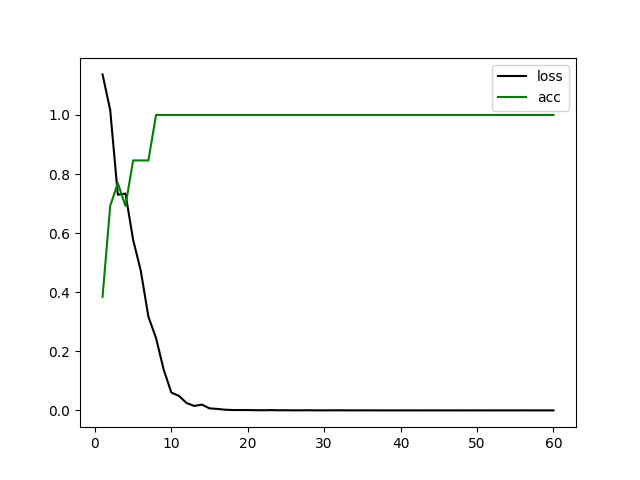
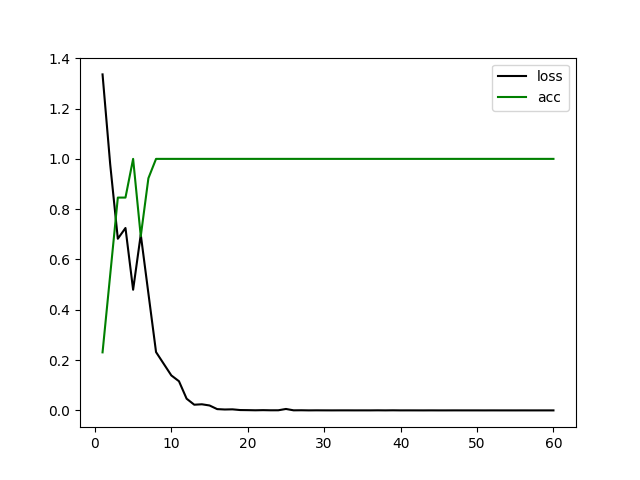
open two branches

diff --git a/Main.py b/Main.py
@@ -3,12 +3,15 @@ import torch.nn as nn
 import argparse
 import random
 import Metrics as metrics
+import pandas as pd
+import datetime
 from matplotlib import pyplot as plt
 from torch.utils.data import DataLoader
 from Datasets import IRNN2023
 from module.model2 import IRNN
 from torch.optim import Adam
 from torchvision import transforms
+from util.loss import INFONCELoss
 
 parser=argparse.ArgumentParser()
 parser.add_argument("--epoches",type=int,default=60)
@@ -19,6 +22,7 @@ parser.add_argument("--weight_decay",type=float,default=5e-4)
 parser.add_argument("--h_RNN_layers",type=int,default=1)
 parser.add_argument("--drop_p",type=float,default=0.4)
 parser.add_argument("--num_classes",type=int,default=3)
+parser.add_argument("--ratio",type=float,default=0.1)
 arg=parser.parse_args()
 
 random.seed(1)
@@ -45,11 +49,13 @@ def train():
         for epoch in range(arg.epoches):
             total_loss=0.0
             running_corrects=0.0
-            for images,labels in dataloader:
-                images,labels=images.to(arg.device),labels.to(arg.device)
+            for images,labels,fin in dataloader:
+                images,labels,fin=images.to(arg.device),labels.to(arg.device),fin.to(arg.device)
                 optim.zero_grad()
-                _,output=model(images,None)
-                loss=criterion(output,labels)
+                out1,out2,output=model(images,fin)
+                loss_pred=criterion(output,labels)
+                loss_sim=INFONCELoss(out1,out2)
+                loss=loss_pred+arg.ratio*loss_sim
                 loss.backward()
                 optim.step()
                 total_loss+=loss.item()
@@ -73,6 +79,8 @@ def train():
     eval_f1 = metrics.f1score()
     acc_w, acc_uw = eval_acc.eval(pred_all_tensor,ground_truth_all_tensor)
     f1_w, f1_uw = eval_f1.eval(pred_all_tensor,ground_truth_all_tensor)
+    # 添加log日志
+    pd.DataFrame({"train_date":[datetime.datetime.now().strftime("%Y-%m-%d %H:%M:%S")],"acc":[acc_w],"uar":[acc_uw],"uf1":[f1_uw]}).to_csv("log.csv",mode='a',header=False)
     print("The dataset has the ACC:{:.4f} and UAR and UF1:{:.4f} and {:.4f}".format(acc_w, acc_uw, f1_uw))
 
 def evaluate(model,pth,transform,pred_all_tensor,ground_truth_all_tensor):
@@ -81,9 +89,9 @@ def evaluate(model,pth,transform,pred_all_tensor,ground_truth_all_tensor):
     dataloader = DataLoader(dataset=dataset, batch_size=arg.batch_size, shuffle=True)
     ground_truth=[]
     predicts=[]
-    for images, labels in dataloader:
-        images= images.to(arg.device)
-        _,output=model(images,None)
+    for images, labels,fin in dataloader:
+        images,fin= images.to(arg.device),fin.to(arg.device)
+        out1,out2,output=model(images,fin)
         _,predict=torch.max(output,dim=1)
         predicts.extend(predict.tolist())
         ground_truth.extend(labels.tolist())

diff --git a/module/model2.py b/module/model2.py
@@ -112,14 +112,21 @@ class IRNN(nn.Module):
         self.Inception1_2 = Inception(in_channels=24, out_channels=12,mode='video')
         self.Inception2_1 = Inception(in_channels=3, out_channels=6,mode='image')
         self.Inception2_2 = Inception(in_channels=24, out_channels=12,mode='image')
-        self.rnn = RNN(48*16*16, h_RNN_layers, 16*8*8, drop_p)
+        self.rnn = RNN(48*16*16, h_RNN_layers, 24*8*8, drop_p)
         self.cbam=CBAM(48,mode="video")
         self.fc = torch.nn.Sequential(
             torch.nn.Linear(in_features=16 * 16 * 48 , out_features=4048),  # 单层14*14*24，双层7*7*48
             torch.nn.BatchNorm1d(4048),
             torch.nn.ReLU(inplace=True),
-            torch.nn.Dropout(0.5),
+            torch.nn.Dropout(0.4),
             torch.nn.Linear(in_features=4048, out_features=num_classes),
+        )
+        self.fc1=torch.nn.Sequential(
+            torch.nn.Linear(in_features=16 * 16 * 48 *2, out_features=9096),  # 单层14*14*24，双层7*7*48
+            torch.nn.BatchNorm1d(9096),
+            torch.nn.ReLU(inplace=True),
+            torch.nn.Dropout(0.4),
+            torch.nn.Linear(in_features=9096, out_features=num_classes),
         )
 
     def forward(self,x1,x2):
@@ -135,15 +142,14 @@ class IRNN(nn.Module):
         # print(out_x1.shape)
         out_x1 =out_x1.reshape(out_x1.shape[0],out_x1.shape[1],-1)
         out_x1=self.rnn(out_x1)
-        '''
+
         out_x2=self.Inception2_1(x2)
         out_x2=self.Inception2_2(out_x2)
         out_x2 = out_x2.reshape(out_x2.shape[0], -1)
         x = torch.cat([out_x1, out_x2], dim=1)
-        '''
-        x=out_x1
-        x = self.fc(x)
-        return out_x1,x
+
+        x = self.fc1(x)
+        return out_x1,out_x2,x
 
 
 class RNN(nn.Module):

diff --git a/util/video.py b/util/video.py
@@ -1,5 +1,6 @@
 import cv2
 import os
+import datetime
 from tqdm import tqdm
 from decimal import *
 
@@ -41,23 +42,25 @@ def batch_extract_frame_modify():
             stride = int(Decimal(video_slice_len / 5).quantize(Decimal(0), rounding=ROUND_HALF_UP))
             idx = 0
             nums=0
-            while idx < video_slice_len:
+            while idx < video_slice_len-1:
                 cv2.imwrite(f"../videoslice/sub{index if index>=10 else '0'+str(index)}/{file[:-4]}/{nums}.jpg"
                             ,file_video_slice[idx])
                 nums+=1
                 if nums == 5:
                     break
-                if (idx + stride) < video_slice_len - 1:
+                if (idx + stride) < video_slice_len - 2:
                     idx += stride
                 else:
                     cv2.imwrite(f"../videoslice/sub{index if index >= 10 else '0' + str(index)}/{file[:-4]}/{nums}.jpg"
-                                , file_video_slice[-1])
+                                , file_video_slice[-2])
                     break
-
+            cv2.imwrite(f"../videoslice/sub{index if index >= 10 else '0' + str(index)}/{file[:-4]}/final_frame.jpg"
+                        , file_video_slice[-1])
 
 
 
 if __name__=='__main__':
     # batch_extract_frame()
-    batch_extract_frame_modify()
+    # batch_extract_frame_modify()
+    print(datetime.datetime.now().strftime("%Y-%m-%d %H:%M:%S"))
 

diff --git a/Datasets.py b/Datasets.py
@@ -100,12 +100,16 @@ class IRNN2023(Dataset):
 
     def __getitem__(self, index):
         image_seq=[]
+        final_img=None
         for (root,dir,files) in os.walk(self.df["pth"][index]):
-            for file in files:
+            for (idx,file) in enumerate(files):
                 img=self.transform(Image.open(root+"\\"+file))
-                image_seq.append(img.detach().numpy())
+                if idx<=4:
+                    image_seq.append(img.detach().numpy())
+                else:
+                    final_img=np.array(img)
         image_seq=np.array(image_seq)
-        return image_seq,self.df["class_label"][index]
+        return image_seq,self.df["class_label"][index],final_img
 
     def __len__(self):
         return len(self.df)

diff --git a/util/loss.py b/util/loss.py
@@ -1,0 +1,17 @@
+import torch
+import torch.nn.functional as F
+
+def sim(z1, z2):
+    # 归一化 dim=32*64
+    z1 = F.normalize(z1)
+    # dim=32*64
+    z2 = F.normalize(z2)
+    return (z1 * z2).sum(dim=1)
+
+
+def INFONCELoss(z1, z2):
+    f = lambda x: torch.exp(x / 0.7)
+    between_sim = f(sim(z1, z2))
+    rand_item = torch.randperm(z1.shape[0])
+    neg_sim = f(sim(z1, z2[rand_item])) + f(sim(z2, z1[rand_item]))
+    return -torch.log(between_sim / (between_sim + between_sim + neg_sim)).mean()
